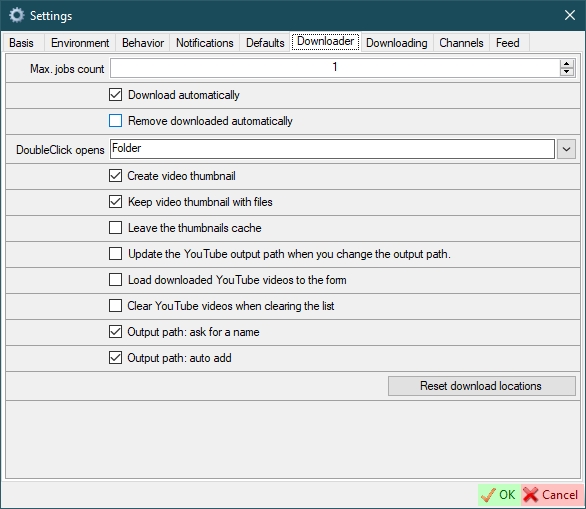
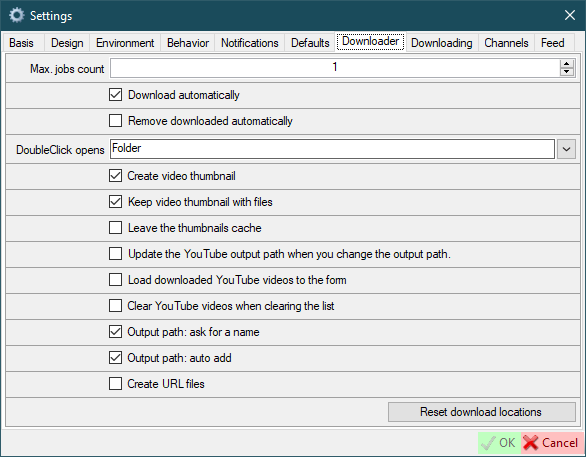
2023.10.10.0

Changed region(s): [[0.0, 0.0, 1.0, 0.8578], [0.0, 0.8578, 1.0, 1.0], [0.6451, 0.7352, 0.9829, 0.7965]]

diff --git a/Changelog.md b/Changelog.md
@@ -1,3 +1,29 @@
+# 2023.10.10.0
+
+*2023-10-10*
+
+- Added
+  - Notification if the user has disabled downloading from the site
+  - Standalone downloader: new setting `Create URL files`
+  - Changed the sessions naming method to be more intuitive
+  - Settings that allow the user to change the number of saved session (`Settings` - `Feed` - `Store session data`)
+  - **YouTube: new settings `Create URL files` and `Create description files`**
+  - YouTube: added the `Clear selected` button
+  - YouTube: group the `Clear and remove` buttons in the menu
+- Fixed
+  - Reddit: unable to save settings without OAuth data
+  - JustForFans: rewritten m3u8 downloader
+  - JustForFans: downloading of missing posts
+  - JustForFans: download to the date
+  - JustForFans: corrupted files
+  - Threads: new token is not saved if it was received during download
+  - ThisVid: parsing stops when new videos are added
+  - YouTube: file name is missing when destination is changed by selecting one of the saved locations
+  - YouTube: missing files still appear in the list
+  - Collections: labels are removed when creating a new collection
+  - Standalone downloader: cached thumbnail is not removed when item is removed from the list
+  - Minor bugs
+
 # 2023.10.1.0
 
 *2023-10-01*

diff --git a/README.md b/README.md
@@ -4,6 +4,7 @@
 
 [![GitHub release (latest by date)](https://img.shields.io/github/v/release/AAndyProgram/SCrawler)](https://github.com/AAndyProgram/SCrawler/releases/latest)
 [![GitHub license](https://img.shields.io/github/license/AAndyProgram/SCrawler)](https://github.com/AAndyProgram/SCrawler/blob/main/LICENSE)
+[![Discord](https://img.shields.io/discord/1124032649682493462?logo=discord)](https://discord.gg/uFNUXvFFmg)
 [![GitHub all releases](https://img.shields.io/github/downloads/aandyprogram/scrawler/total?label=Total%20downloads)](https://github.com/AAndyProgram/SCrawler/releases)
 [![FAQ](https://img.shields.io/badge/FAQ-green)](FAQ.md)
 [![GUIDE](https://img.shields.io/badge/GUIDE-green)](https://github.com/AAndyProgram/SCrawler/wiki)
